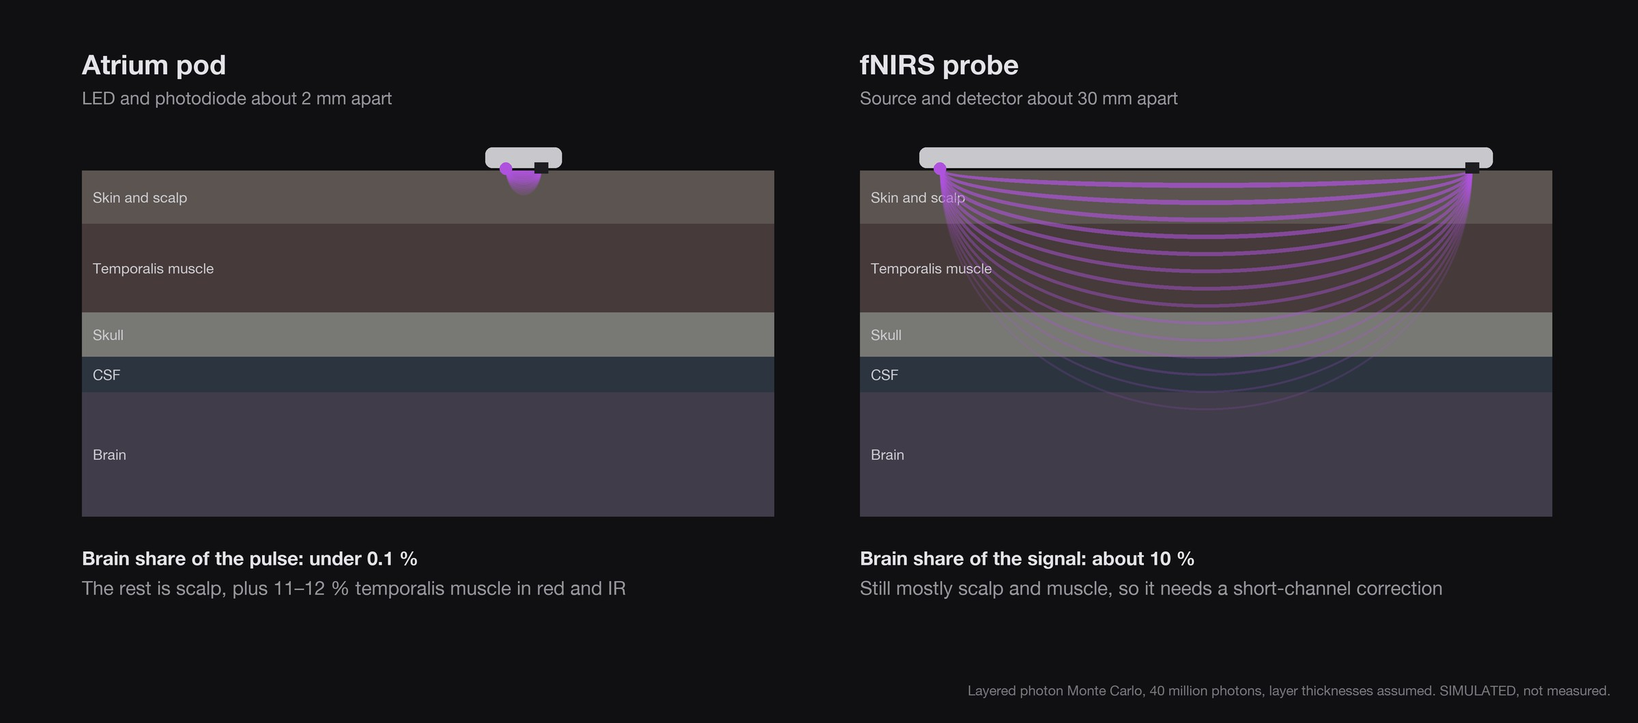
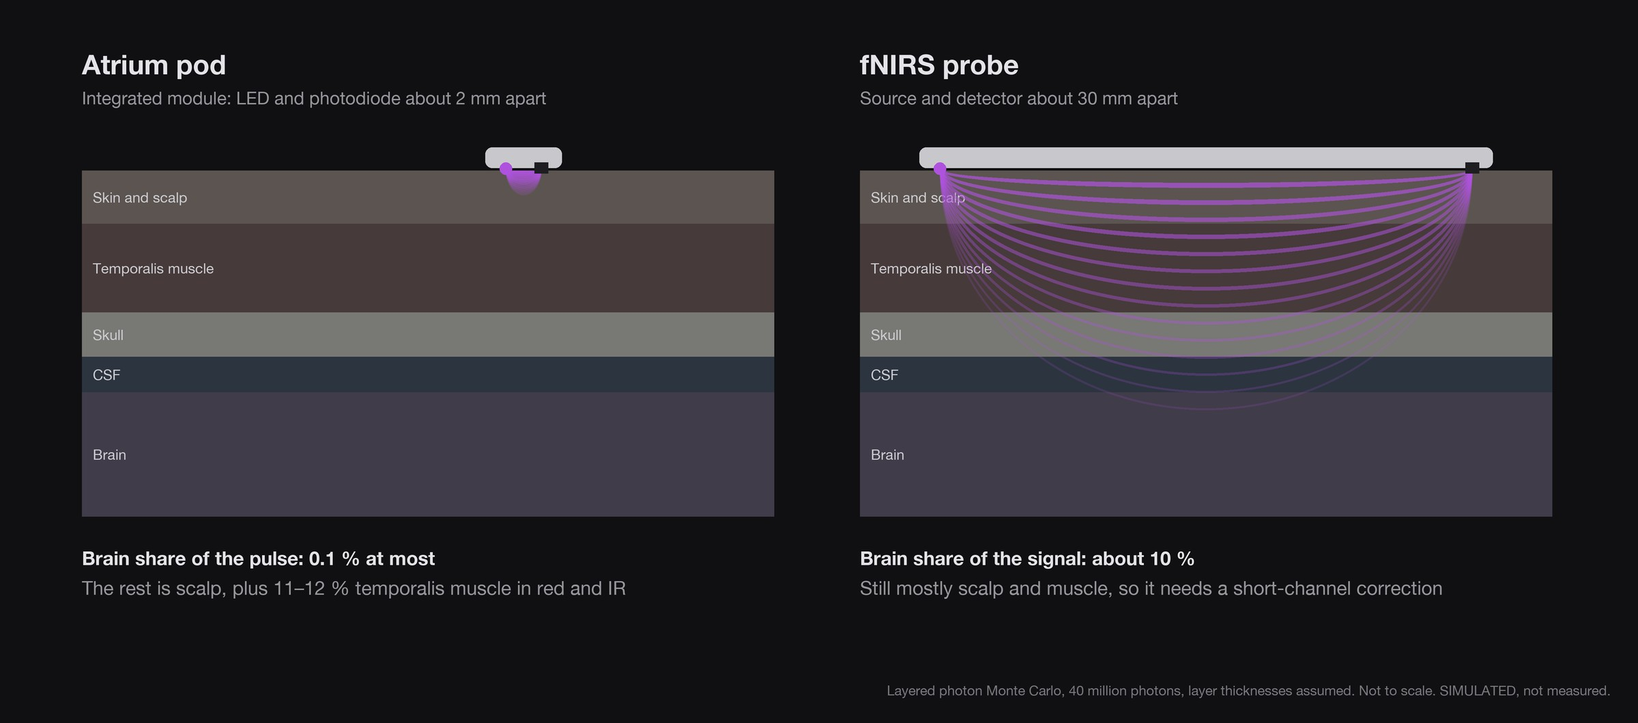
Make every public claim match its evidence
Brain blood flow: cite Strangman et al. 2013 for the 8-13 % at 25-35 mm and the outer 10-15 mm bias, Brigadoi and Cooper 2015 for the 8.4 mm short channel and an MRI study for the 3.7-17 mm temporalis range; drop the uncited depth rule of thumb and the 5 mm typical muscle; mark skull and CSF thicknesses as model assumptions; widen the shortfall to 20-450 times; say the research modes are in the firmware but untested, and use rev 14 for modes 8 and 9. README: label the portraits and app screens as illustrations and demo data, give the real DRC status, call the case charge count an estimate, and name Zephyr rather than nRF Connect SDK. Fix stale baseline paths in the case firmware and BLE notes, the app's interface revision note, and references to code that is not in this release.

Changed region(s): [[0.5312, 0.934, 0.875, 0.9651], [0.0625, 0.1245, 0.3438, 0.1557], [0.1875, 0.7472, 0.2812, 0.7783]]

diff --git a/README.md b/README.md
@@ -1,5 +1,6 @@
 <p align="center">
   <img src="docs/images/photos/hero_mono.jpg" alt="A man in profile wearing the Atrium pod beside his eye" width="100%">
+  <br><sub>Illustration: the pod at true scale. No EVT units are built yet.</sub>
 </p>
 
 <p align="center">
@@ -80,8 +81,8 @@ ends of the pod, joined by a flex under a centred cell. Each step, and what I tr
 
 ## Inside
 
-Every board is routed by hand: no autorouter, arc bends on the antenna feed, a copper-free zone under the chip antenna
-on every layer, and ground stitching along each edge.
+Every board is routed by hand: no autorouter, arc bends on the antenna feed and a copper-free zone under the chip
+antenna on every layer.
 
 <p align="center">
   <img src="docs/images/plates/layout_islands.jpg" alt="Radio and power island layouts, top and bottom" width="100%">
@@ -113,7 +114,8 @@ the bone and nothing in your ear. It is designed on paper and deliberately left 
 ### Brain blood flow?
 
 It's the first thing people ask about a sensor on the side of the head, so here is the straight answer: **no, Atrium
-can't see blood flow in the brain, and neither can any sensor this small.** I wanted it to, so I tested it before
+can't see blood flow in the brain, and neither can any sensor whose light and detector sit this close
+together.** I wanted it to, so I tested it before
 claiming anything.
 
 <p align="center">
@@ -122,20 +124,21 @@ claiming anything.
 
 An optical sensor works by shining light into the skin and catching what scatters back. The light comes back along a
 curved path, and **how deep that path goes depends on how far apart the light and the detector are.** Under the pod
-there are about 3 mm of scalp, 5 mm of jaw muscle, 2–3 mm of skull and some fluid before you reach the brain.
+there are a few millimetres of scalp, 4 to 17 mm of jaw muscle depending on the person, then the skull and some fluid
+before you reach the brain.
 
 - **The usual way, which Atrium uses.** An integrated optical module: green, red and infrared LEDs and the photodiode
   in one 2.9 × 4.3 mm package, so they are fixed about 2 mm apart by the part itself. Our photon simulations say green never leaves the scalp, and in red and infrared the brain's share of the
-  pulse is **under 0.1 %**; the rest is scalp and the temporalis muscle. The pulse at the side of your head comes from
+  pulse is **0.1 % at most**; the rest is scalp and the temporalis muscle. The pulse at the side of your head comes from
   the superficial temporal artery, which feeds the scalp, not the brain.
-- **A far detector, which we tried.** Rev B.1 had a second photodiode 18.5 mm from the LEDs. At that distance the
-  brain is still only about 1 % of the pulse and the jaw muscle about three quarters, so it was dropped.
+- **A far detector, which we tried.** Rev B.1 had a second photodiode 18.5 mm from the LEDs. At that distance our
+  simulation puts the brain at about 1 % of the pulse and the jaw muscle at about three quarters, so it was dropped.
 - **The fNIRS way.** Near-infrared light with the source and the detector about **3 cm** apart, so the light that makes
   it across has gone deep enough to reach the brain. Even then the brain is only **about 10 %** of the signal, which
   is why research systems add a short scalp-only channel and subtract it.
 
 Better processing can't close that gap. To detect a brain signal in a 24-person study it would need to be about 2 % of
-the pulse; at the pod's spacing it is 40 to 450 times smaller, faster sampling barely helps, and the jaw muscle
+the pulse; at the pod's spacing it is 20 to 450 times smaller, depending on the person, faster sampling barely helps, and the jaw muscle
 produces false "deep" results on its own. So when a small device says it reads brain blood flow, ask how far apart its
 light and detector are, whether it has a short channel, and what it was validated against.
 
@@ -158,11 +161,11 @@ If any of this is the part you want to build, start with the [roadmap](docs/road
 | **Optics** | MAXM86161 module (green, red and infrared LEDs, photodiode, front end) behind a pill window |
 | **Other sensors** | LSM6DSOX motion, a skin NTC and a top NTC |
 | **Power** | 30 mAh Li-po (9 × 9 × 4 mm), BQ21061 charger, AP6683 protection, 1.8 V rails; about 4 days in the default mode (to be measured on EVT units) |
-| **Charging** | ENIG contacts on the skin side: VIN at the centre and ground either side, so it charges either way round, plus two SWD contacts for the programming jig. A steel stiffener and two magnets hold it on the Plinth |
-| **Case** | 2-layer board: CH32V003 MCU, linear charger, 5 V boost and current limit into the pod; about 8 pod charges per case charge |
+| **Charging** | ENIG contacts on the skin side: VIN at the centre and ground either side, so it charges either way round, plus two SWD contacts for the programming jig and the charging case. A steel stiffener and two magnets hold it on the Plinth |
+| **Case** | 2-layer board: CH32V003 MCU, linear charger, 5 V boost and current limit into the pod; about 8 pod charges per case charge (estimated) |
 | **Wear** | Upright, window end up. A hidden 0.15 mm disposable pad in a bed under the pod; nothing shows |
 | **Build** | Parts from the LCSC / JLCPCB catalogue; both islands on one panel for one PCBA order |
-| **Software** | Pod firmware on Zephyr (nRF Connect SDK), case firmware for the CH32V003, Flutter app for Android and iOS. No account and no cloud: data stays on the phone |
+| **Software** | Pod firmware on Zephyr RTOS with MCUboot, case firmware for the CH32V003, Flutter app for Android and iOS. No account and no cloud: data stays on the phone |
 
 
 ## Get the app
@@ -173,6 +176,7 @@ If any of this is the part you want to build, start with the [roadmap](docs/road
 
 <p align="center">
   <img src="docs/images/app/app_setup.jpg" alt="Setup screens: pairing, placement, signal check, device and skin pad" width="100%">
+  <br><sub>Screens from the demo build, with sample data. The photographs in the app are illustrations.</sub>
 </p>
 
 
@@ -215,7 +219,7 @@ Engineering validation (EVT).
 | | |
 |---|---|
 | Schematics | Captured and checked against the netlist |
-| Boards | Hand-routed: radio and power islands (6-layer HDI), flex jumper, charging case. DRC clean |
+| Boards | Hand-routed: radio and power islands (6-layer HDI), flex jumper, charging case. DRC: islands and panel 0 errors; flex and case have explained, accepted items ([`hardware/README.md`](hardware/README.md#checks)) |
 | Production files | Gerbers, BOM, CPL and a 2 × 3 islands panel ready to order |
 | Enclosure | Pod, skin pad, Plinth, case, jig and packaging CAD with fit checks and drawings |
 | Firmware | Pod and case firmware build; unit tests pass |

diff --git a/docs/brain-blood-flow.md b/docs/brain-blood-flow.md
@@ -20,7 +20,8 @@ when the small vessels swell, a little less light comes back. That rhythm is the
 The light that returns does not go straight down and up. It wanders through the tissue and comes back along a curved,
 banana-shaped path between the LED and the photodiode. **How deep that banana reaches depends on how far apart they
 are.** Put them close together and the light stays near the surface. Move them apart and the light that makes it across
-has, on average, travelled deeper; a common rule of thumb is a depth of a third to a half of the spacing.
+has, on average, travelled deeper. Even at the 2–4 cm used for brain imaging, the signal is strongly weighted to the
+outermost 10–15 mm inside the skull ([Strangman et al. 2013](https://doi.org/10.1371/journal.pone.0066319)).
 
 The colour matters too. Green is absorbed quickly and stays in the top millimetre or two. Red and near-infrared go
 further, which is why every brain-imaging optical system uses near-infrared.
@@ -29,12 +30,12 @@ further, which is why every brain-imaging optical system uses near-infrared.
 
 From the skin inwards, at the spot where the pod sits:
 
-| Layer | Typical thickness | Blood supply |
+| Layer | Thickness (used in our model) | Blood supply |
 |---|---|---|
-| Skin and scalp | about 3 mm | Superficial temporal artery |
-| Temporalis muscle (the jaw muscle) | about 5 mm, from 3.7 to 17 mm between people | Deep temporal arteries |
-| Skull | about 2–3 mm | |
-| Cerebrospinal fluid | about 2 mm | |
+| Skin and scalp | 3 mm | Superficial temporal artery |
+| Temporalis muscle (the jaw muscle) | 7 mm, and 5 mm in a thin-layer run. Measured by MRI at 3.7–17 mm between adults ([Surg Neurol Int](https://surgicalneurologyint.com/surgicalint-articles/standard-values-for-temporal-muscle-thickness-in-the-japanese-population-who-undergo-brain-check-up-by-magnetic-resonance-imaging/)) | Deep temporal arteries |
+| Skull | 3 mm, and 2 mm in the thin-layer run [ASSUMED] | |
+| Cerebrospinal fluid | 2 mm [ASSUMED] | |
 | Brain | | Internal carotid and vertebral arteries |
 
 Two things follow from this.
@@ -58,7 +59,8 @@ green, red and infrared) and asked one question: what share of the pulse signal 
 | With the thinnest published layers | brain about 0.05 %, up to about 0.1 % with a 3.7 mm muscle | |
 | Fits on the side of the head? | yes, it is the pod | needs a band or a 3 cm probe |
 
-Our 30 mm result lands inside the 8–13 % that published head-model simulations report at 25–35 mm spacing. That
+Our 30 mm result lands inside the 8–13 % that a published head-template simulation reports for 25–35 mm spacing
+([Strangman et al. 2013](https://doi.org/10.1371/journal.pone.0066319)). That
 agreement is why I trust the model at 2 mm too.
 
 <p align="center">
@@ -84,9 +86,10 @@ The obvious reply is "the brain part is small, so filter harder". We tested that
 - **The signal is hundreds of times too small to find.** I simulated the study I would actually run: people breathe
   extra CO₂, which widens brain vessels, and we look for a matching change in the pod's signal. To detect a brain
   share reliably (80 % of the time) we would need it to be about **3.8 % with 12 people, or 2 % with 24**. Physics gives
-  0.008 % with typical layers and 0.05 % with thin ones: **40 to 450 times too small**.
+  0.008 % with typical layers, 0.05 % with thin ones and about 0.1 % with the thinnest muscle: **20 to 450 times too
+  small**.
 - **Faster sampling does not help.** At 200 samples a second instead of 25, the shortfall barely moves (from 454 to 360
-  times). A perfect, noiseless sensor is still 231 times short. The limit is the natural beat-to-beat change in scalp
+  times). A perfect, noiseless sensor is still 346 times short (231 times with 24 people). The limit is the natural beat-to-beat change in scalp
   and muscle blood, which looks exactly like a deeper pulse would.
 - **Muscle fools the test.** The temporalis also responds to CO₂. In simulation, a 5 % muscle response alone produced a
   false "deeper than skin" result in 48 % of 12-person studies and 76 % of 24-person studies, with no brain signal at
@@ -103,7 +106,7 @@ These are the questions I asked myself. They are fair to ask of any product, inc
 1. **How far apart are the light source and the detector?** Under about 2 cm, the brain's share is tiny. The physics
    does not care how good the algorithm is.
 2. **Is there a short channel?** Serious fNIRS adds a second detector about 8 mm from the source that sees only the
-   scalp, and subtracts it. Without one, scalp changes are reported as brain changes.
+   scalp, and subtracts it ([Brigadoi and Cooper 2015](https://doi.org/10.1117/1.NPh.2.2.025005)). Without one, scalp changes are reported as brain changes.
 3. **What was it validated against, and in how many people?** Transcranial Doppler or MRI blood-flow imaging, in a
    published study, is the bar. A correlation with heart rate is not.
 4. **Does the signal survive the controls?** If pressing the temporal artery in front of the ear wipes it out, it is
@@ -152,6 +155,11 @@ all result data (photon model output, 500-study power sweeps, simulated studies 
   [`legacy/rev-b1/hardware/simulation/results/`](../legacy/rev-b1/hardware/simulation/results/).
 - **Study power:** 500 simulated studies per point, with the analysis fixed before any data was looked at.
 - **Finger timing:** pulse-transit-time-ppg 1.1.0 (PhysioNet, ODbL 1.0), 22 people, sitting, 500 Hz.
-- **Anatomy:** published imaging puts the adult temporalis at about 5 mm (3.7–17 mm) and the temporal skull at about
-  2 mm; published head-model simulations put the brain share at 8–13 % for 25–35 mm spacing.
+- **Published work:**
+  - Strangman, Li and Zhang (2013), *PLoS ONE* 8(8): e66319: brain sensitivity of 8–13 % at 25–35 mm on the Colin27
+    head template, and the bias towards the outer 10–15 mm.
+  - Brigadoi and Cooper (2015), *Neurophotonics* 2(2): 025005: the 8.4 mm optimum short-channel distance in adults.
+  - Temporal muscle thickness by MRI, 360 adults aged 35–84: 3.69–16.90 mm (*Surgical Neurology International*).
+  - The superficial temporal artery is a terminal branch of the external carotid artery (standard anatomy).
+- **Not yet cited:** the skull and CSF thicknesses are model assumptions.
 - **Status:** no Atrium head recording exists yet. Every result here is simulated or from finger data.

diff --git a/docs/research/brain-blood-flow/research_mode.md b/docs/research/brain-blood-flow/research_mode.md
@@ -1,6 +1,6 @@
 # Research mode: what 100–200 Hz adds, and where it stops (2026-11-08)
 
-**Status.** Firmware research modes 6 (100 Hz) and 7 (200 Hz) stream green, IR, red and direct ambient, with the IMU at 104 Hz (`ble_gatt.md` rev 14). They are planned and not bench-tested. No head recording exists.
+**Status.** Firmware research modes 6 (100 Hz) and 7 (200 Hz) stream green, IR, red and direct ambient, with the IMU at 104 Hz (`ble_gatt.md` rev 14). They are in the firmware but not bench-tested. No head recording exists.
 
 Every number below names its source:
 - **finger** is real data: pulse-transit-time-ppg 1.1.0, 22 adults sitting, MAX30101 at 500 Hz, with ECG.
@@ -18,14 +18,14 @@ The results are in `data/research_mode/`.
 | 3 | Pulse timing: arrival time after a chest-strap ECG R peak, IR–green lag | coarse (95th percentile error 20 ms and 8.8 ms) | **good** (5 ms and 1.9 ms) | |
 | 4 | Pulse shape: rise time, notch, reflection ratios | no | coarse (95th percentile rise-time error 67 ms at 200 Hz) | 500 Hz or more |
 | 5 | Response beyond the scalp to breathing challenges | "consistent with" muscle or subcutis only | unchanged | a muscle-only control (jaw clench) |
-| 6 | A deep (intracranial) haemodynamic change | **no**: 40–450 times under the detection limit | **no**: unchanged | separate source and detectors at 25–35 mm plus an 8 mm short channel (fNIRS) |
+| 6 | A deep (intracranial) haemodynamic change | **no**: 20–450 times under the detection limit | **no**: unchanged | separate source and detectors at 25–35 mm plus an 8 mm short channel (fNIRS) |
 | 7 | Blood flow in the brain | **no** | **no** | coherent laser and photon-counting detectors at 25–30 mm (DCS or speckle contrast), or transcranial Doppler ultrasound |
 
 The pod's ceiling is **levels 1–3**, with level 3 needing research mode. Levels 6 and 7 are not reachable with a single module whose LEDs and photodiode sit about 2 mm apart [VERIFY], at any sample rate. They are not reachable in the pod's 20.9 mm body either (below).
 
 ## 1. What research mode buys: pulse timing (finger, real data)
 
-The released firmware reads one short integration per 25 Hz frame (SMP_AVE = 1, `maxm86161_regs.c`). Nothing filters the optical signal before it is sampled, so pulse content and noise above 12.5 Hz fold back into the band. That folding, not the 25 Hz rate itself, is what costs timing:
+In its everyday modes the firmware reads one short integration per 25 Hz frame (SMP_AVE = 1, `maxm86161_regs.c`). Nothing filters the optical signal before it is sampled, so pulse content and noise above 12.5 Hz fold back into the band. That folding, not the 25 Hz rate itself, is what costs timing:
 - Ideal anti-aliased decimation to 25 Hz keeps per-beat timing within 2 ms (95th percentile).
 - Point sampling at 25 Hz does not.
 
@@ -33,7 +33,7 @@ Error per beat against 500 Hz, in ms, as the median / 95th percentile of the abs
 
 | How the module samples | IR–green lag | Pulse arrival, green | Pulse arrival, IR | Rise time, green |
 |---|---|---|---|---|
-| 25 Hz, one integration per frame (**released firmware**) | 2.2 / 8.8 | 5.0 / 20.0 | 2.0 / 13.1 | 25 / 124 |
+| 25 Hz, one integration per frame (**everyday modes**) | 2.2 / 8.8 | 5.0 / 20.0 | 2.0 / 13.1 | 25 / 124 |
 | 50 Hz, one integration per frame | 1.5 / 6.2 | 3.0 / 15.0 | 2.0 / 8.0 | 19 / 123 |
 | 100 Hz, one integration per frame (mode 6) | 1.0 / 4.4 | 3.0 / 10.0 | 2.0 / 6.0 | 15 / 109 |
 | 200 Hz, one integration per frame (mode 7) | 0.4 / 1.9 | 1.0 / 5.0 | 0.0 / 2.0 | 4 / 67 |
@@ -45,7 +45,7 @@ Medians over 22 sitting records. Pulse-arrival errors come in 2 ms steps, becaus
 
 **What follows from the table:**
 - For timing, **sampling fast matters more than streaming fast.** 200 Hz averaged to 50 Hz matches streaming 200 Hz for lag and pulse arrival, at a quarter of the BLE data. 200 Hz averaged to 25 Hz gets most of the way there.
-- Firmware modes 8 and 9 (`ble_gatt.md` rev 15) do exactly this: they sample at 200 Hz with on-chip averaging (SMP_AVE 4 or 8) and stream 50 or 25 Hz. The LED fires as often as in mode 7, so their LED current is close to mode 7's, not to today's 25 Hz modes [ASSUMED until measured].
+- Firmware modes 8 and 9 (`ble_gatt.md` rev 14) do exactly this: they sample at 200 Hz with on-chip averaging (SMP_AVE 4 or 8) and stream 50 or 25 Hz. The LED fires as often as in mode 7, so their LED current is close to mode 7's, not to today's 25 Hz modes [ASSUMED until measured].
 - The research modes already average down to 25 Hz for the on-pod filters (`modes.h`), so the pod's own pulse and HRV filters get the anti-aliasing benefit in those modes.
 - **Shape features stay coarse.** Rise time has a 95th percentile error of 67 ms even at 200 Hz. Morphology claims need 500 Hz or more, or a model-based fit.
 
@@ -129,5 +129,5 @@ So that Atrium's wording can be placed correctly:
 ## Next steps this adds
 
 - **E1 (already listed):** bench-test modes 6 and 7, and compare point-sampled against averaged on the pod's own signal. Minimum 3 pods, 10 min each.
-- **E1b:** firmware modes 8 and 9 now do this (`ble_gatt.md` rev 15): they sample at 200 Hz and average on the module to 50 Hz (SMP_AVE 4) or 25 Hz (SMP_AVE 8). They are planned and not bench-tested, and their currents are [ASSUMED]. The decoder moves each word to its window centre (7.5 or 17.5 ms earlier). On the bench, check SMP_AVE reads back from 0x12, and measure the current.
+- **E1b:** firmware modes 8 and 9 now do this (`ble_gatt.md` rev 14): they sample at 200 Hz and average on the module to 50 Hz (SMP_AVE 4) or 25 Hz (SMP_AVE 8). They are in the firmware but not bench-tested, and their currents are [ASSUMED]. The decoder moves each word to its window centre (7.5 or 17.5 ms earlier). On the bench, check SMP_AVE reads back from 0x12, and measure the current.
 - **E5 (already listed):** ultrasound layer thickness at both spots, 5 people. This now matters more, because the plausible range of the 2 mm brain share spans a factor of 12 (0.008–0.1 %).

diff --git a/docs/research/brain-blood-flow/report.md b/docs/research/brain-blood-flow/report.md
@@ -20,7 +20,7 @@ Atrium is a wellness and research device. Nothing here is a medical measurement.
 
    Spacing is about 2 mm [VERIFY]. Even at 3 mm the brain share is 0.016 %. With these layers, the muscle share is more than 1,000 times the brain share at 2–3 mm, and still about 80 times at 20 mm (`figures/f6_depth.png`).
 
-   **Thinner layers, same conclusion.** Published imaging puts the adult temporalis at about 5 mm (range 3.7–17 mm) and the temporal skull at about 2 mm. The table above assumes 7 mm and 3 mm. Re-running the Monte Carlo with 5 mm and 2 mm (`data/monte_carlo/s1_mc_thin.json`) gives an IR brain share of:
+   **Thinner layers, same conclusion.** MRI puts the adult temporalis at 3.7–17 mm between people (360 adults, *Surgical Neurology International*); the temporal skull is thin, and 2 mm is our assumption. The table above assumes 7 mm and 3 mm. Re-running the Monte Carlo with 5 mm and 2 mm (`data/monte_carlo/s1_mc_thin.json`) gives an IR brain share of:
    - 4.9 × 10⁻⁴ (0.05 %) at 2 mm;
    - about 1 × 10⁻³ with a 3.7 mm temporalis.
 
@@ -46,7 +46,7 @@ Atrium is a wellness and research device. Nothing here is a medical measurement.
    There is no brain in a finger, so an IR–green lag at the head cannot by itself be read as an intracranial signal.
 
 5. **What costs timing at 25 Hz is aliasing, not the rate itself.** Source: real finger data, n = 22, sitting (`research_mode.md`, `data/research_mode/`; amended H6).
-   - The released firmware reads one short integration per 25 Hz frame (SMP_AVE = 1), so pulse content and noise above 12.5 Hz fold into the band. 95th percentile of |error per beat| against 500 Hz:
+   - In its everyday modes the firmware reads one short integration per 25 Hz frame (SMP_AVE = 1), so pulse content and noise above 12.5 Hz fold into the band. 95th percentile of |error per beat| against 500 Hz:
      - pulse-arrival time (green): 20 ms;
      - IR–green lag: 8.8 ms.
    - Research mode 7 (200 Hz) brings those to 5 ms and 1.9 ms.
@@ -72,7 +72,7 @@ Atrium is a wellness and research device. Nothing here is a medical measurement.
 - **That a red or IR residual beyond green is intracranial.** At most it is "consistent with muscle, subcutis or deeper tissue".
 - **Modified Beer–Lambert ΔHbO and ΔHbR as concentrations.** They assume a uniform change along the Monte Carlo's mean path. In layered tissue they are a dermis-weighted mean, so they are relative indices only.
 - **That the jaw-artefact detector works.** Its AUC of 1.00 is on simulated artefacts, which are cleaner than real ones. The real value comes from P6.
-- **Ambient-light leakage.** It is unknown. The released firmware has no direct-ambient slot; research modes 6 and 7 add one (`ble_gatt.md` rev 14), but they are planned and not bench-tested.
+- **Ambient-light leakage.** It is unknown. The everyday modes have no direct-ambient slot; research modes 6 and 7 add one (`ble_gatt.md` rev 14). They are in the firmware but not bench-tested.
 - **The source–detector spacing.** It is unknown to better than about ±0.5 mm [VERIFY].
 
 ## What would change our mind

diff --git a/docs/research/brain-blood-flow/README.md b/docs/research/brain-blood-flow/README.md
@@ -15,7 +15,7 @@ answers, and real finger recordings from a public dataset. Every simulated outpu
 | Where does the pod's pulse come from? | Scalp. Green: more than 99.9 % scalp. Red and IR: 88–89 % scalp, 11–12 % temporalis muscle | Photon model, `data/monte_carlo/` |
 | How much is brain? | 0.006–0.008 % with typical layers; about 0.05 % with the thinnest published layers, up to about 0.1 % with a 3.7 mm muscle | Photon model, `figures/f6_depth.png` |
 | How much at fNIRS spacing? | 10.6 % at 30 mm, inside the 8–13 % that published head models give at 25–35 mm | Photon model |
-| Could a study on the pod detect it? | No. 80 % power needs a brain share of 3.8 % (12 people) or 2.0 % (24 people): 40–450 times more than physics gives | 500 simulated studies per point, `data/power/`, `figures/f7_power.png` |
+| Could a study on the pod detect it? | No. 80 % power needs a brain share of 3.8 % (12 people) or 2.0 % (24 people): 20–450 times more than physics gives | 500 simulated studies per point, `data/power/`, `figures/f7_power.png` |
 | Does sampling faster help? | Barely. 25 → 200 Hz moves the shortfall from 454× to 360× (12 people); a noiseless sensor is still 346× short | `data/research_mode/` |
 | Can a "deeper than green" result be trusted? | No. A 5 % temporalis response alone gives a false deep result in 48 % (12 people) to 76 % (24 people) of studies | `data/sim_muscle/`, `figures/f3_co2_challenges.png` |
 | Is an IR–green timing lag depth evidence? | No. In real finger data IR leads green by a median 25 ms (IQR 16–36 ms, 21 of 22 people), and a finger has no brain | `data/finger/` |

diff --git a/firmware/case/README.md b/firmware/case/README.md
@@ -1,6 +1,6 @@
 # Charging case firmware
 
-Firmware for the Atrium charging case (`docs/charging-case.md` in the EVT baseline): a CH32V003F4U6 (WCH RISC-V, QFN-20, LCSC C5299908) in C, with no RTOS. It builds, and the host tests pass. It has not run on a case board yet: see [What needs hardware](#what-needs-hardware).
+Firmware for the Atrium charging case (see [`docs/charging-case.md`](../../docs/charging-case.md)): a CH32V003F4U6 (WCH RISC-V, QFN-20, LCSC C5299908) in C, with no RTOS. It builds, and the host tests pass. It has not run on a case board yet: see [What needs hardware](#what-needs-hardware).
 
 | Folder | Contents |
 |---|---|
@@ -29,7 +29,7 @@ Firmware for the Atrium charging case (`docs/charging-case.md` in the EVT baseli
 
 ## Pins (QFN-20)
 
-From CH32V003DS0 V1.8, table 2-1. The OPA pins are fixed by the silicon. The case netlist (`atrium-evt-baseline/hardware/design-data/netlist/case_nets.yaml`, 2026-11-08) matches all 18 MCU pins.
+From CH32V003DS0 V1.8, table 2-1. The OPA pins are fixed by the silicon. The case netlist (`hardware/design-data/netlist/case_nets.yaml`, 2026-11-08) matches all 18 MCU pins.
 
 Board values the firmware depends on, from that netlist: TP4054 PROG 4.7k (about 213 mA [VERIFY]), boost 5.21 V (768k / 100k), SY6280 ISET 15k (0.45 A backstop above the 80 mA firmware trip), LED XL-1615RGBC-RF common anode to VDD with red 1k and green and blue 330 Ω, HAL248 pull-up R19 4.7M fitted only if the output is open drain (DNP).
 

diff --git a/docs/ble_gatt.md b/docs/ble_gatt.md
@@ -9,7 +9,7 @@ Feature numbers (#n) refer to [`FEATURES.md`](FEATURES.md).
 - New Vibration Data (0x0207, N): one accelerometer axis, the one normal to the skin, as raw 16-bit samples. Every notification has a sequence number, the uptime of its first sample and that sample's index, so gaps show.
 - A bench rig (§4.5): the same packets, mode 11, gap-free over SPI on an nRF52 DK, as text lines on USB serial. It is not part of the pod and changes nothing over the air.
 
-**Rev 15** adds one flag for the charging case (`docs/charging-case.md` in the EVT baseline); nothing earlier changes, so a rev 14 app still works:
+**Rev 15** adds one flag for the charging case ([charging-case.md](charging-case.md)); nothing earlier changes, so a rev 14 app still works:
 - Charge State byte 4 bit 4: fed by the charging case. The case marks its VIN with two 200 ms drop-outs about 3 s after it starts feeding (and after a reset); the Plinth does not, so the bit tells them apart (2026-11-08). It clears when VIN goes away for more than 400 ms, so a full pod resting in the case with VIN off reads undocked [ASSUMED: the case switches VIN off once the pod is full].
 - Three such drop-outs within 2 s reboot the pod (the case's soft reset). The phone sees a disconnect.
 

diff --git a/docs/research/brain-blood-flow/data_inventory.md b/docs/research/brain-blood-flow/data_inventory.md
@@ -22,7 +22,7 @@
 
 ## What the study needs but the current firmware cannot give
 
-**Update, same day:** firmware `ble_gatt.md` rev 14 adds research modes 6 (100 Hz) and 7 (200 Hz): green, IR, red and a direct-ambient slot (tag 0x04), with the accelerometer at 104 Hz. It answers items 1 and 2 below. Rev 15 adds modes 8 and 9: the same slots sampled at 200 Hz and averaged on the module to 50 and 25 Hz. All four are planned and not bench-tested; their currents are [ASSUMED].
+**Update, same day:** firmware `ble_gatt.md` rev 14 adds research modes 6 (100 Hz) and 7 (200 Hz): green, IR, red and a direct-ambient slot (tag 0x04), with the accelerometer at 104 Hz. It answers items 1 and 2 below. The same rev adds modes 8 and 9: the same slots sampled at 200 Hz and averaged on the module to 50 and 25 Hz. All four are in the released firmware and not bench-tested; their currents are [ASSUMED].
 
 1. **Sample rate.** 25 Hz is enough for amplitude, DC and optical-density analysis.
    - The loss for timing comes from point sampling without anti-aliasing (SMP_AVE = 1), not from the rate itself. On the finger data below, 95th percentile of |error per beat| against 500 Hz:

diff --git a/CONTRIBUTING.md b/CONTRIBUTING.md
@@ -14,7 +14,7 @@ places where help is most useful.
 
 | Area | Where | Notes |
 |---|---|---|
-| Firmware | `firmware/` | Zephyr / nRF Connect SDK for the pod, CH32V003 for the case. Build and test steps are in `firmware/README.md`. Every change keeps the unit tests passing and adds tests for new behaviour |
+| Firmware | `firmware/` | Zephyr RTOS for the pod, CH32V003 for the case. Build and test steps are in `firmware/README.md`. Every change keeps the unit tests passing and adds tests for new behaviour |
 | App | `app/android-ios/` | Flutter. Run `flutter test` before a pull request. Follow the BLE interface in `docs/ble_gatt.md`; a change to the interface changes the doc in the same pull request |
 | Hardware | `hardware/` | Open the `.SchDoc` / `.PcbDoc` in Altium Designer or import them into KiCad. Include updated PDFs, Gerbers, BOM and CPL with any board change, and say which checks you ran (DRC, impedance, stencil) |
 | Mechanical | `mechanical/` | Include STEP, STL and an updated drawing PDF with any part change, and a fit check against the reference bodies |

diff --git a/app/android-ios/BLUEPRINT.md b/app/android-ios/BLUEPRINT.md
@@ -92,14 +92,14 @@ Pigeon definitions live in `pigeons/pod.dart`; the generated Swift, Kotlin and D
 
 ## 9. Ports from the ML reference models (app side)
 
-Each is ported to pure Dart in `insights/` and checked against ML's test vectors (`make_test_vectors.py`):
+Each is ported to pure Dart in `insights/` and checked against the reference models' test vectors in `test/fixtures/` (the reference models themselves are not part of this release):
 
-| Module | Feature | What is ported |
+| Reference model | Feature | What is ported |
 |---|---|---|
-| `logrec.py` | log | The 12-byte epoch decoder |
-| `position.py` | #5 | Sleep head position, plus `on_pod` |
-| `sleep.py` | #4 | 6 features and the logistic regression |
-| `hrv.py` | #2 | The nightly summary |
+| Log record | log | The 12-byte epoch decoder |
+| Head position | #5 | Sleep head position, plus `on_pod` |
+| Sleep | #4 | 6 features and the logistic regression |
+| HRV | #2 | The nightly summary |
 
 ## 10. Risks and gaps
 

diff --git a/app/android-ios/README.md b/app/android-ios/README.md
@@ -12,7 +12,7 @@ The phone app for the Atrium pod: pairing, fit guide, Today, Recovery, Heart, Sl
 - **Design:** `design/` (the clickable prototype and its README).
 - **Plan:** `BLUEPRINT.md`.
 - **Features:** numbered as in `docs/FEATURES.md`.
-- **Pod interface:** `docs/ble_gatt.md` (rev 13).
+- **Pod interface:** `docs/ble_gatt.md`. The app is built to rev 13; revs 14–16 add only research modes and the charging-case flag, so it works with the rev 16 firmware.
 
 Wellness and research only. No screen makes a medical claim.
 

diff --git a/docs/research/brain-blood-flow/hypotheses.md b/docs/research/brain-blood-flow/hypotheses.md
@@ -96,4 +96,4 @@ Added analysis, labelled post hoc:
   - point sampling with no anti-alias filter, which is how the module samples with SMP_AVE = 1;
   - 200 Hz point sampling averaged down on the chip.
 
-The point-sampled case is the one that describes the released firmware.
+The point-sampled case is the one that describes the everyday modes.
